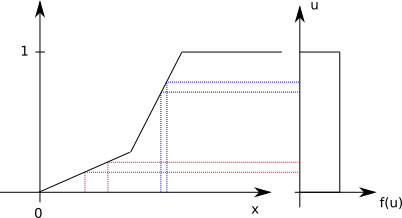
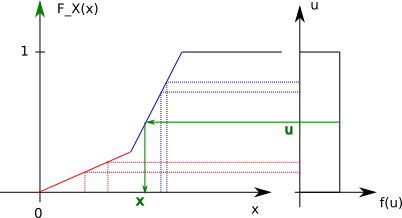
extended inverse transform sampling

diff --git a/2018-09-27-generating_rvs.tex b/2018-09-27-generating_rvs.tex
@@ -26,16 +26,15 @@ This suggests the following steps for generating samples from $f_X$:
 
 \end{enumerate}
 
-\paragraph{Interpretation.} The following Figure shows what's going on.
+\paragraph{Interpretation.} The following Figure shows what's going on. On the left, the function $F_X$ is shwown; on the right the uniform distribution is shown. The sampling works from ``right to left'';  i.e. we sample a uniform point, project it to the left till we touch the function $F_X$ and go down to output the corresponding value $x$. This path is shown in green in the below Figure.
 
 \begin{figure}[H]
-	\includegraphics[scale=1.0]{images/generating_rvs.png}
+	\includegraphics[scale=1.2]{images/generating_rvs.png}
 \end{figure}
 
+A high probability $f_X$ in an interval causes a steep cdf $F_X(x) = \int_{-\infty}^x f_X(u) du$ (in the same interval). Such an interval is shown in blue. This steep slope causes a large interval of $u$-values to be mapped onto a small interval of $x$-values, thereby causing a lot of ``probability'' to concentrate in this $x$-interval.
 
-A high probability $f_X$ causes a steep cdf $F_X(x) = \int_{-\infty}^x f_X(u) du$ (in the same interval). This causes a large interval of $u$-values to be mapped onto a small interval of $x$-values, thereby causing a lot of ``probability'' to concentrate in this $x$-interval. This is illustrated in blue in the Figure. 
-
-The opposite case of a smaller probability, causing a flatter cdf and less probability concentration on the same interval is shown in red in the Figure.
+The opposite case of a smaller probability in some interval, is shown in red. It causes a flatter cdf and therefore less probability to be concentrated in the interval.
 
 \subsection{Example - Asymmetric Triangluar Distribution}
 
